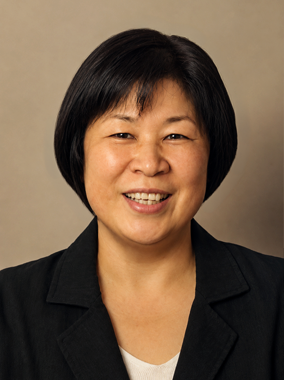
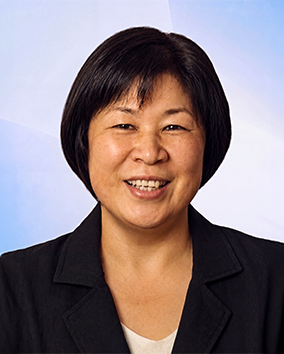
사역자 프로필 이미지 변경

diff --git a/src/pages/TeamPage.jsx b/src/pages/TeamPage.jsx
@@ -28,43 +28,43 @@ const TeamPage = () => {
         {
             name: '최영락',
             role: '담임목사',
-            image: member01Hover,
+            image: member01,
             description: '말씀선포 및 목회총괄'
         },
         {
             name: '임현빈',
             role: '사모',
-            image: member02Hover,
+            image: member02,
             description: '담임목회 동역자'
         },
         {
             name: '김정현',
             role: '부목사',
-            image: member03Hover,
+            image: member03,
             description: '1교구 및 유초등부 담당'
         },
         {
             name: '김윤섭',
             role: '부목사',
-            image: member04Hover,
+            image: member04,
             description: '2교구 및 중고등부 담당'
         },
         {
             name: '이지은',
             role: '교육전도사',
-            image: member07Hover,
+            image: member07,
             description: '유치부 담당'
         },
         {
             name: '강현수',
             role: '전도사',
-            image: member06Hover,
+            image: member06,
             description: '청년부 담당'
         },
         {
             name: '김태인',
             role: '행정간사',
-            image: member05Hover,
+            image: member05,
             description: '행정지원'
         }
     ];
